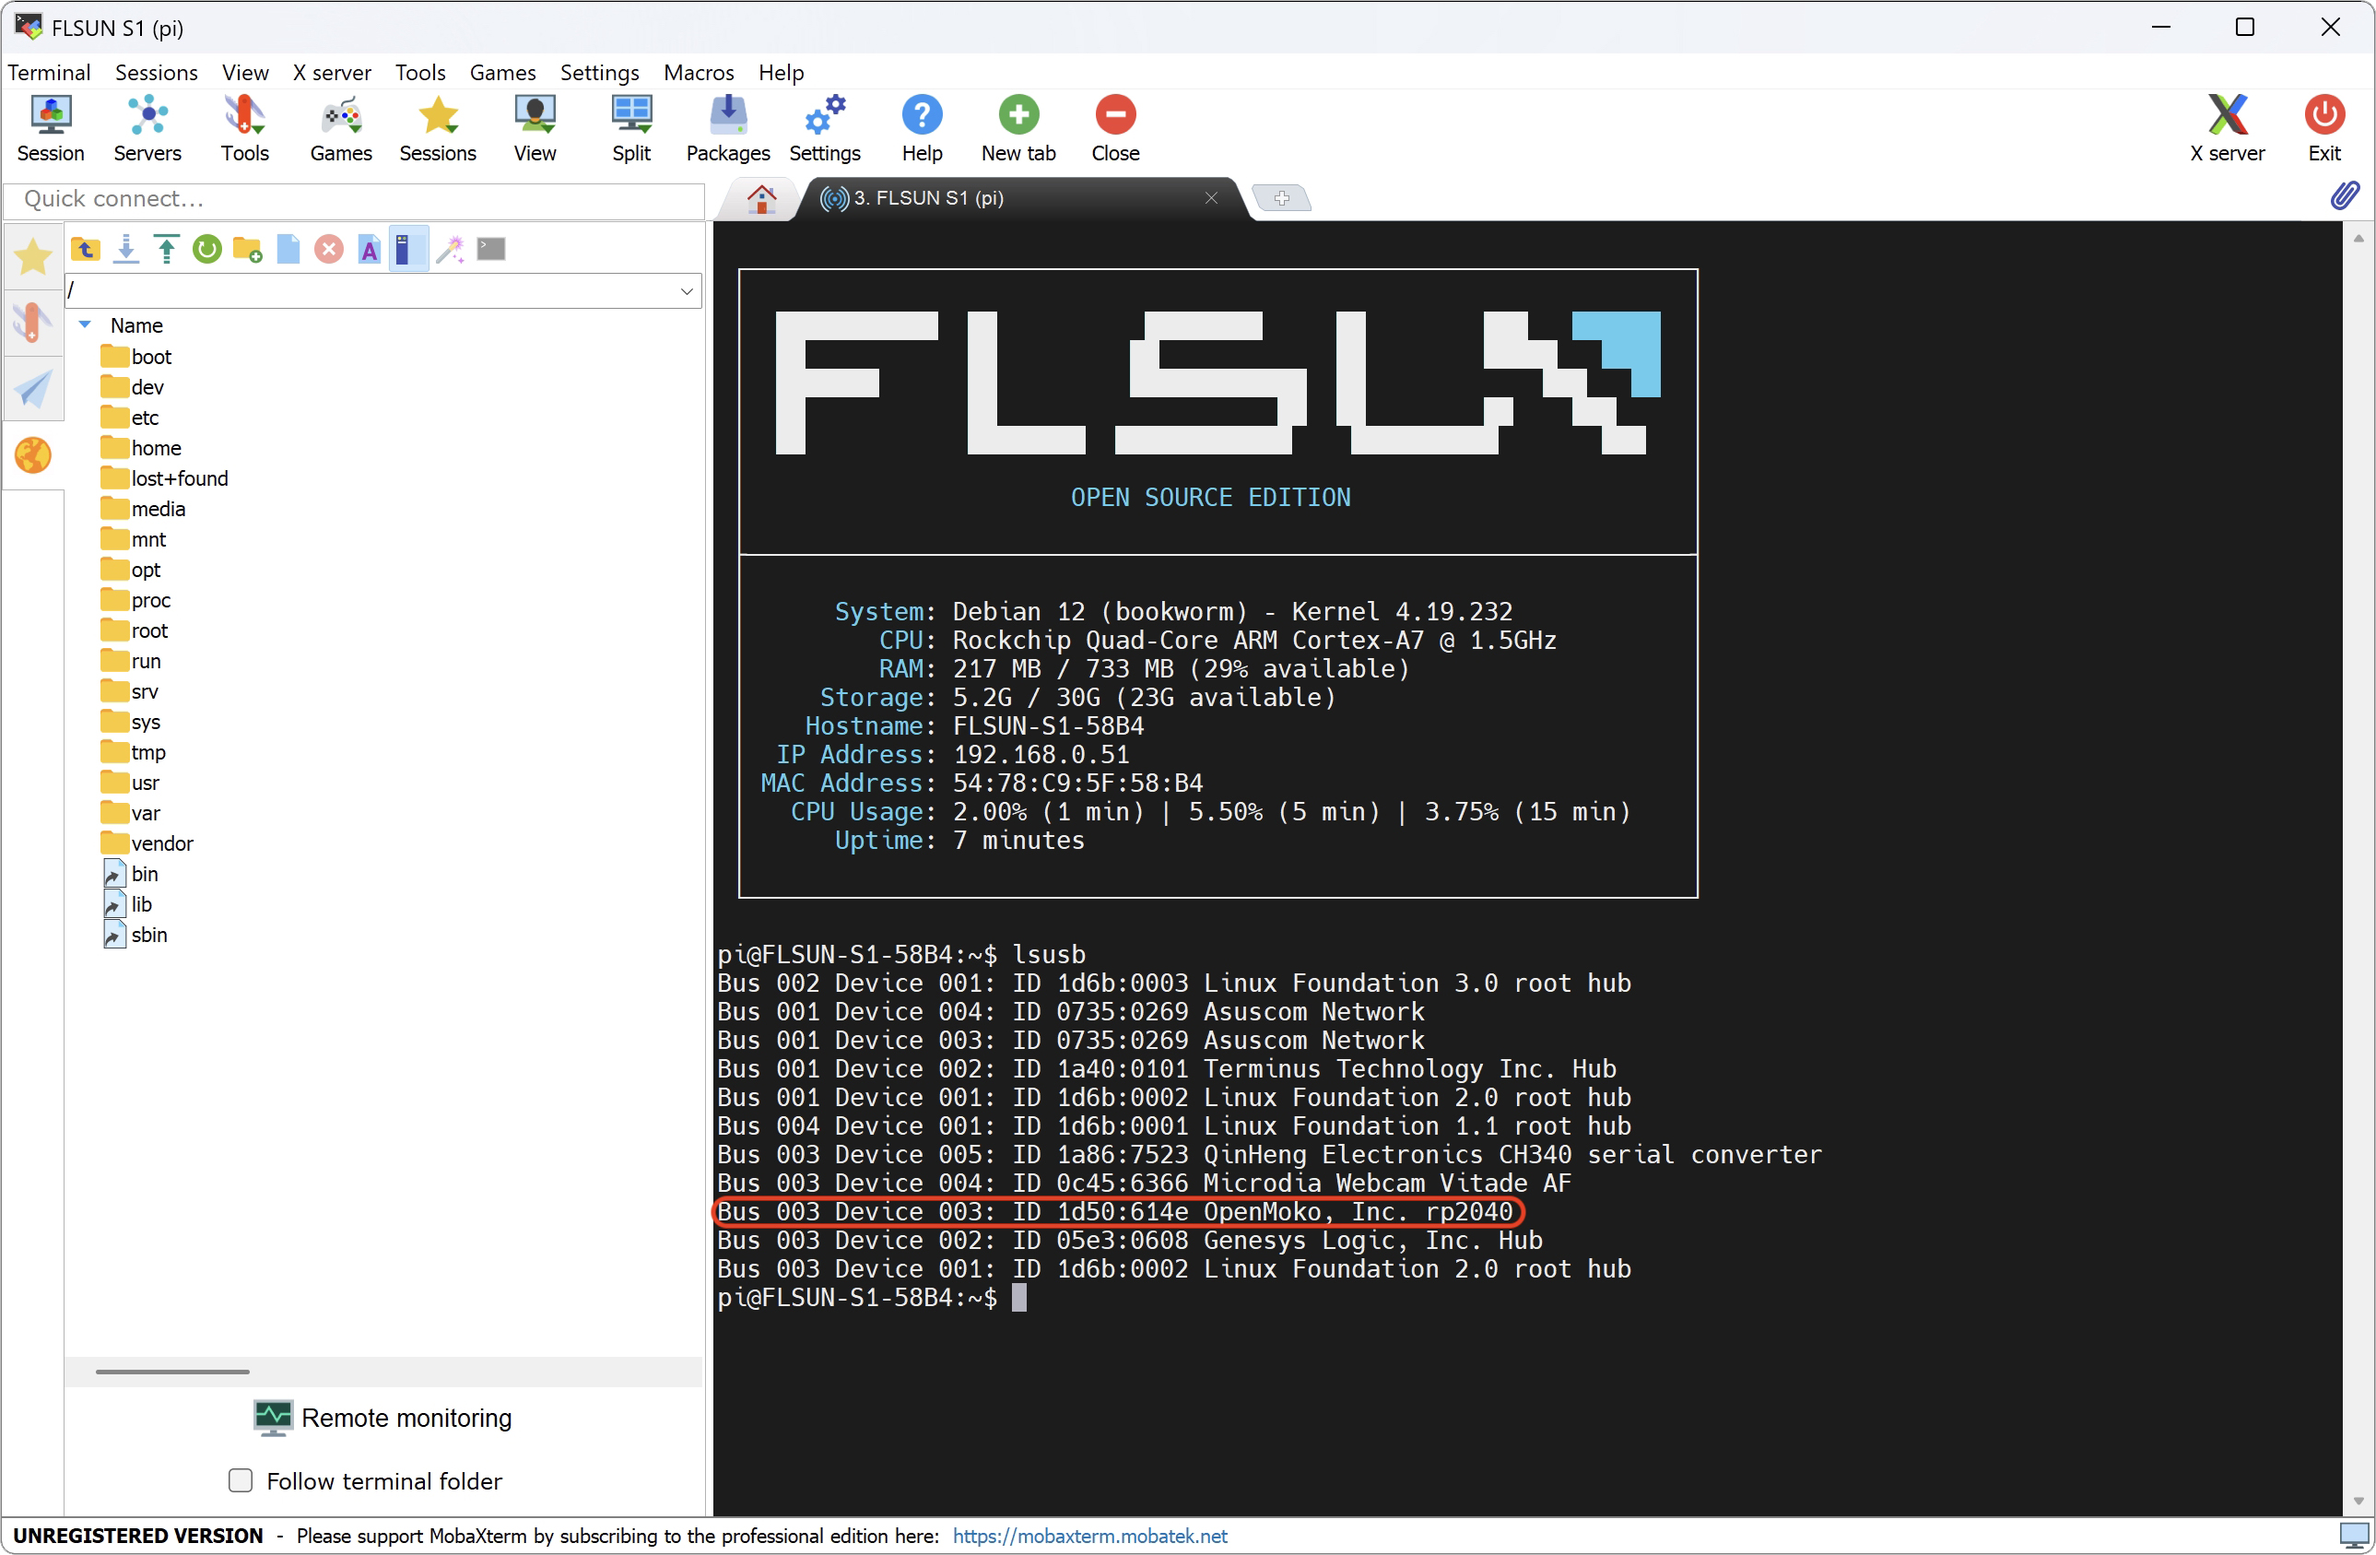
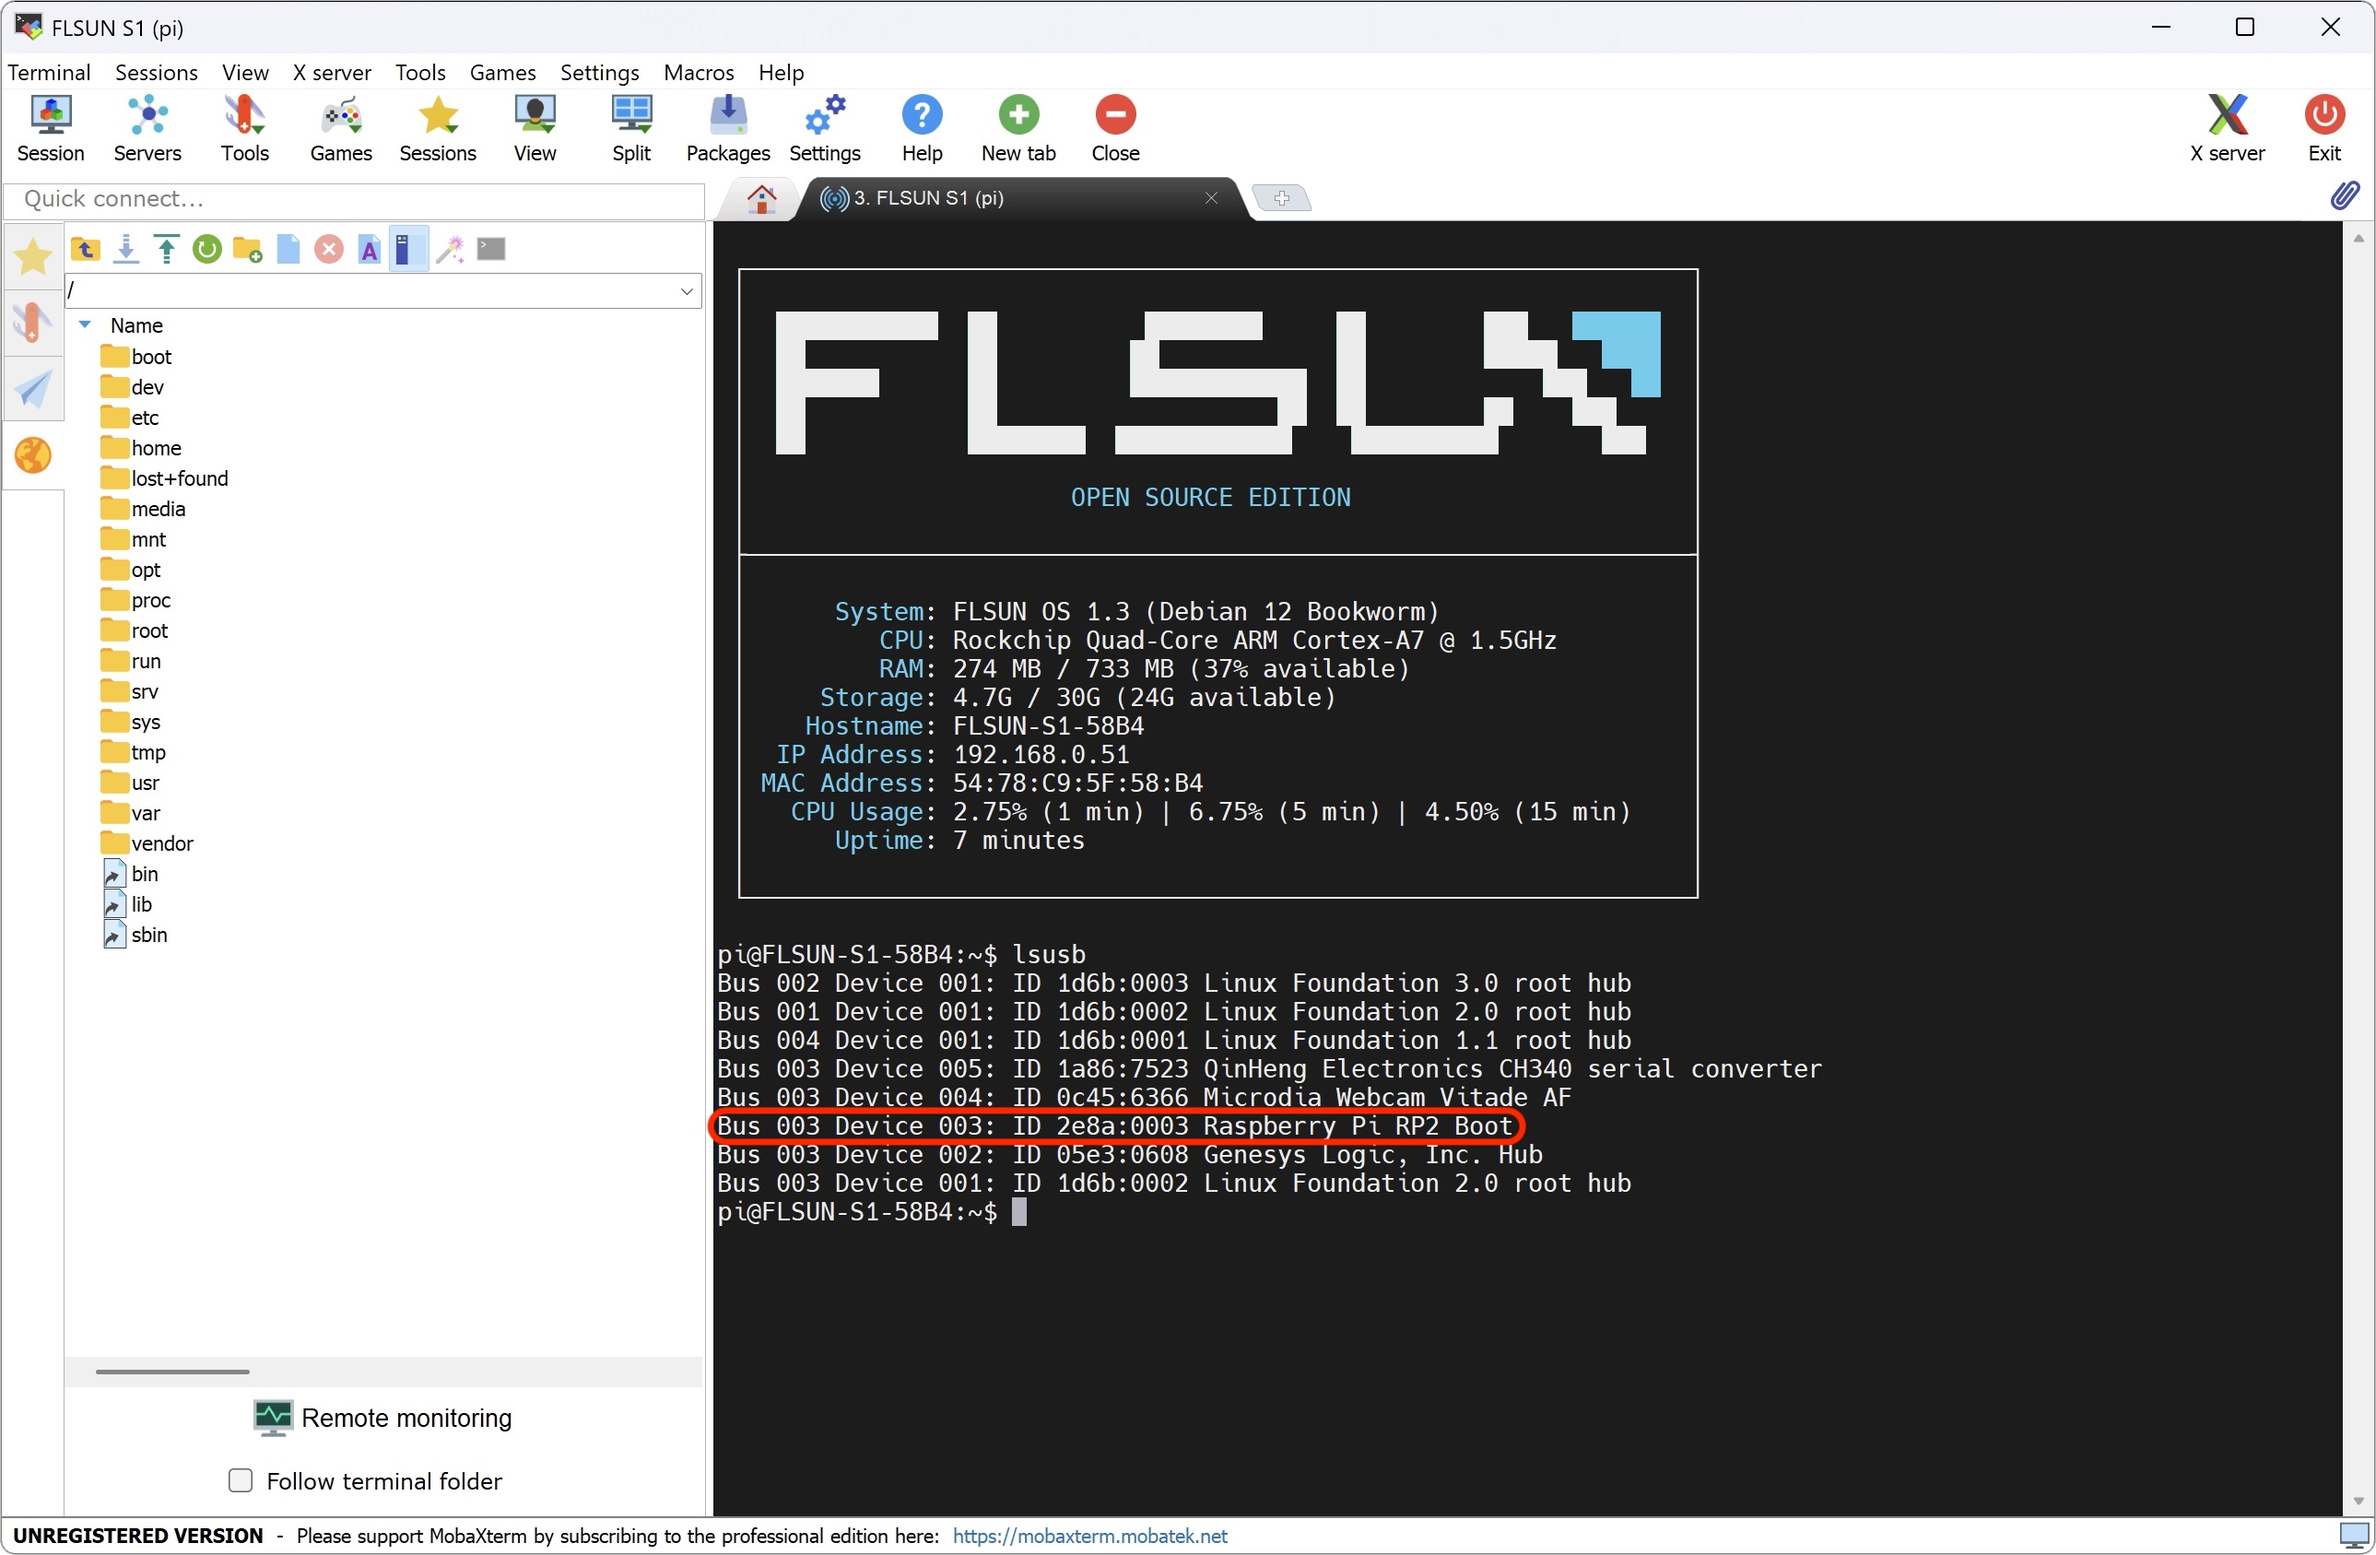
Update

diff --git a/docs/bigtreetech-mmb-cubic.md b/docs/bigtreetech-mmb-cubic.md
@@ -80,7 +80,7 @@ Here we will see the addition of Neopixels and a chamber temperature sensor.
     <img width="450" src="../assets/images/btt-mmb-cubic-05.jpg">
  
  
- - In the SSH command prompt window, enter the following command to query the DFU device ID:
+ - In the SSH command prompt window, enter the following command to query the DFU device ID (it should be named **Raspberry Pi RP2 Boot**):
  
 	``` title="SSH Command Prompt"
     lsusb
@@ -100,7 +100,7 @@ Here we will see the addition of Neopixels and a chamber temperature sensor.
     
     !!! Example
         ``` title="SSH Command Prompt"
-        make flash FLASH_DEVICE=1d50:614e
+        make flash FLASH_DEVICE=2e8a:0003
         ```
 
 - After flashing, enter the following command to query the device Serial ID:
